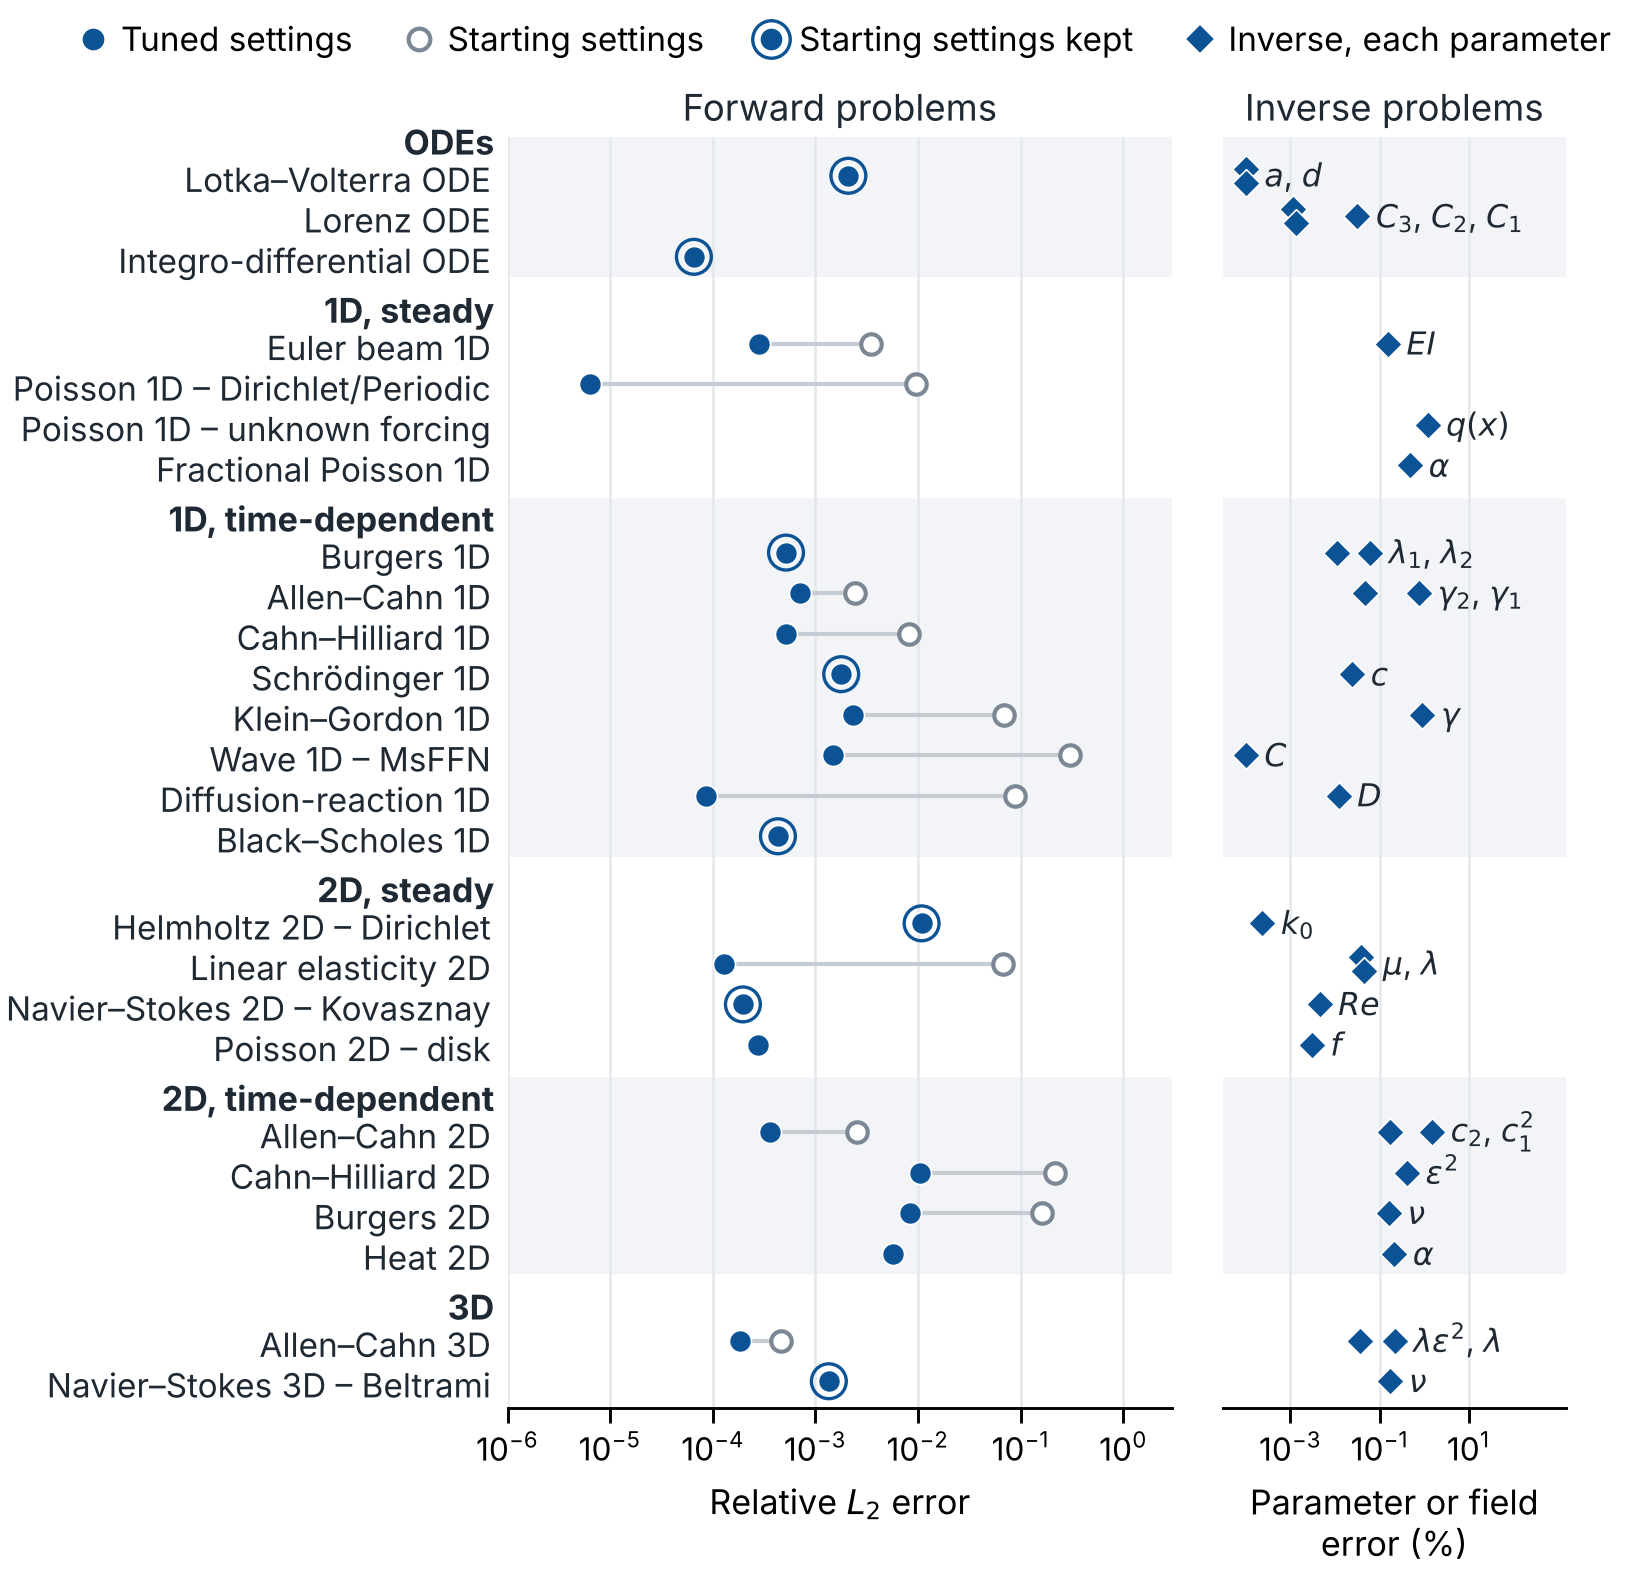
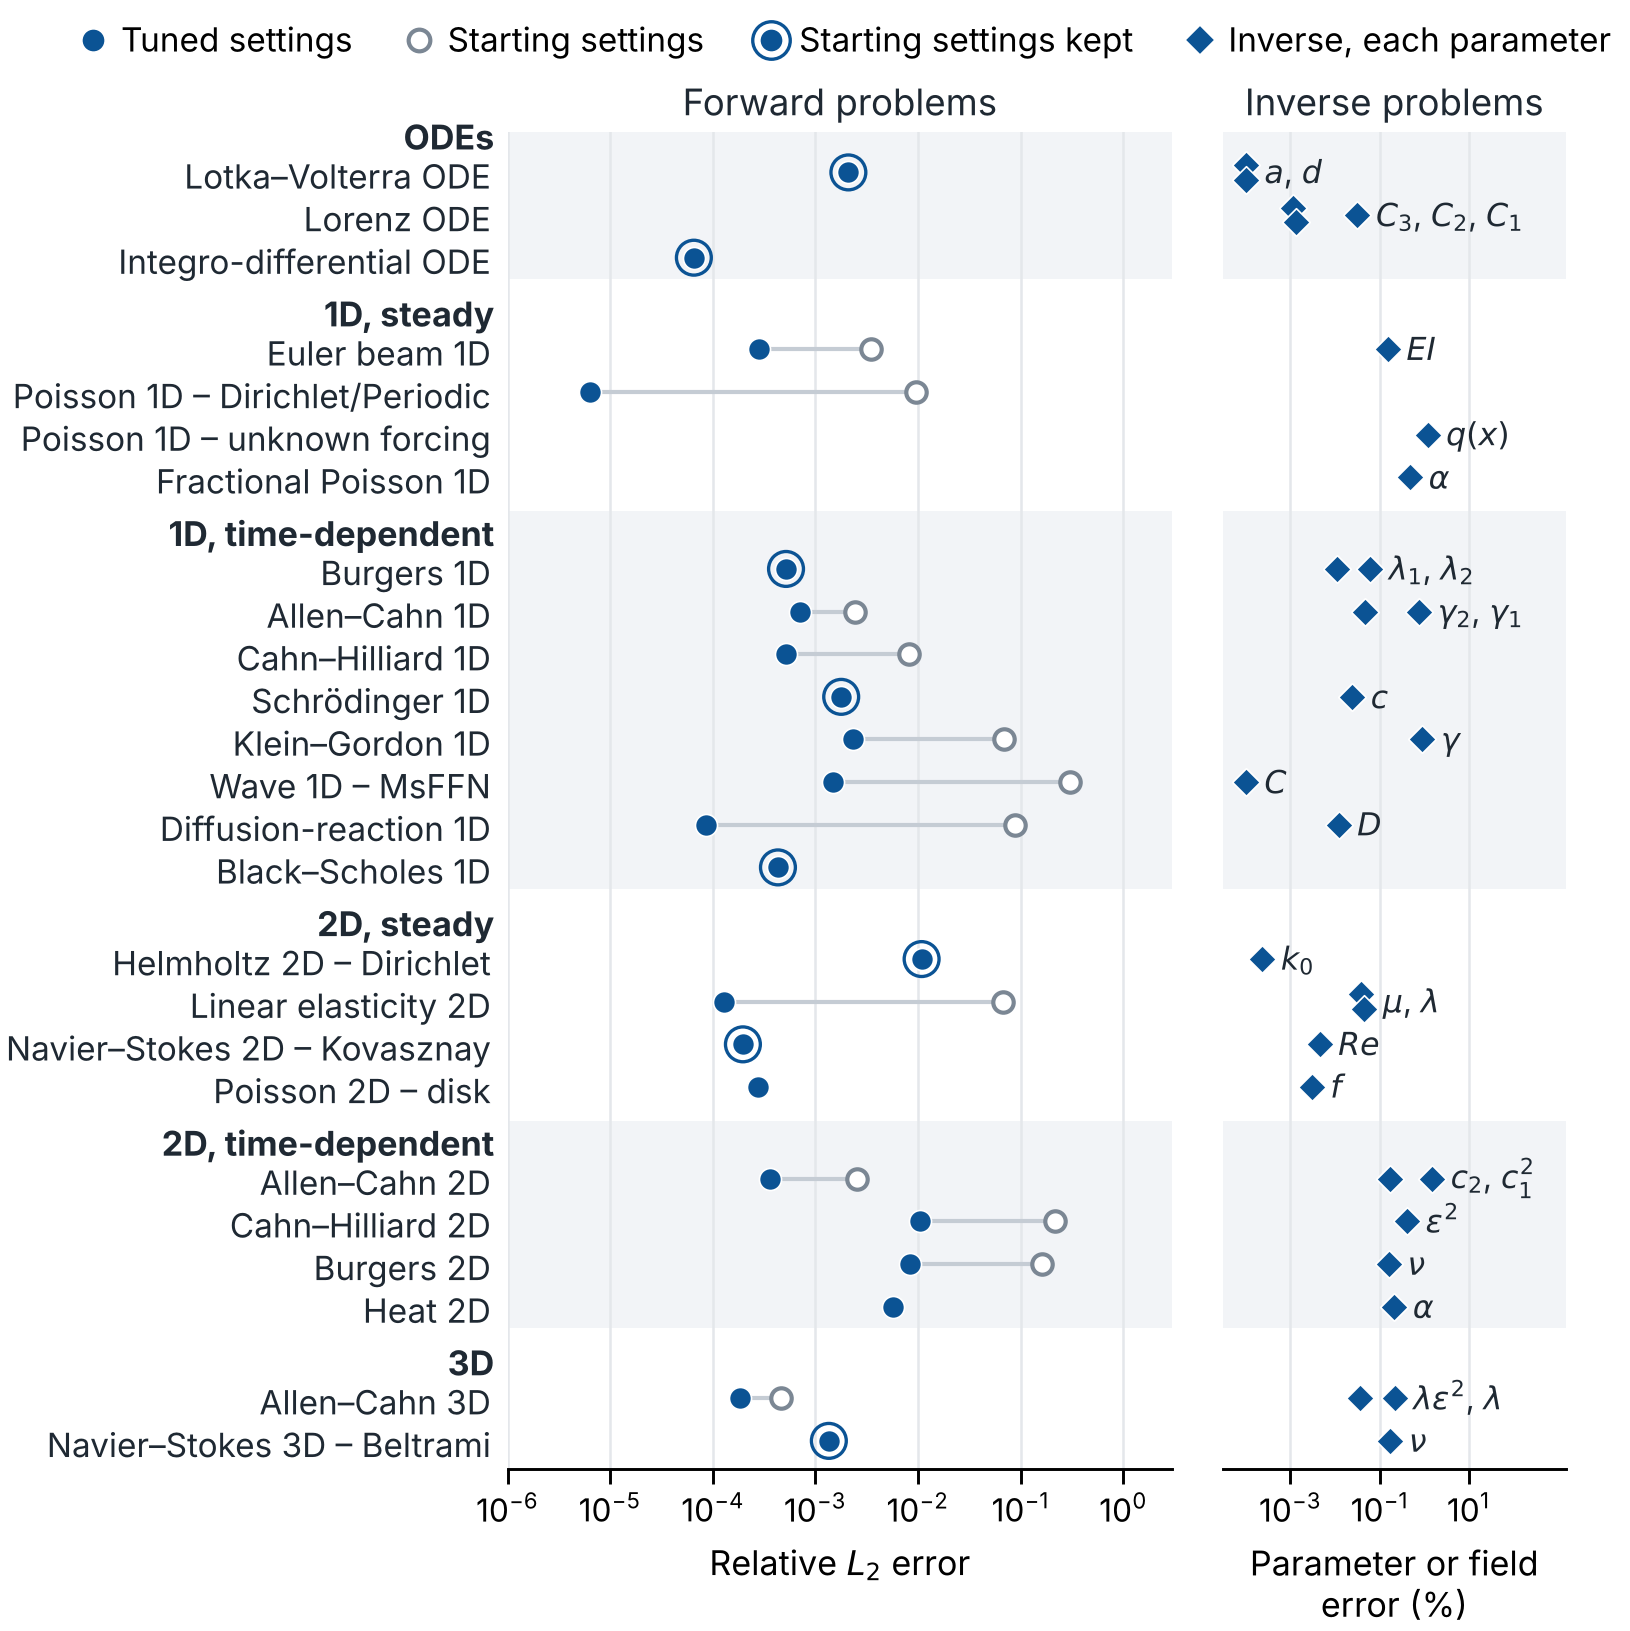
Figure 4: row spacing 0.134 -> 0.141 in (margins 0.44/0.50 -> 0.42/0.46 in); needs height=0.72\textheight in the CPC manuscript

diff --git a/tools/make_benchmarks_readme.py b/tools/make_benchmarks_readme.py
@@ -1032,7 +1032,7 @@ def _paper_figure(rows, path):
     Y = {i: H - v for i, v in ypos.items()}
     # row pitch chosen so that the cropped figure fits the CPC page at the full text width (390 pt) within
     # 0.69 of the text height together with its caption, i.e. it is printed at 100 % and the fonts keep their size
-    PITCH, TOP_IN, BOT_IN = 0.134, 0.44, 0.50
+    PITCH, TOP_IN, BOT_IN = 0.141, 0.42, 0.46
     fig_h = PITCH * H + TOP_IN + BOT_IN
     fig, (ax, bx) = plt.subplots(1, 2, figsize=(5.6, fig_h), sharey=True,
                                  gridspec_kw={"width_ratios": [3.0, 1.55], "wspace": 0.1})
